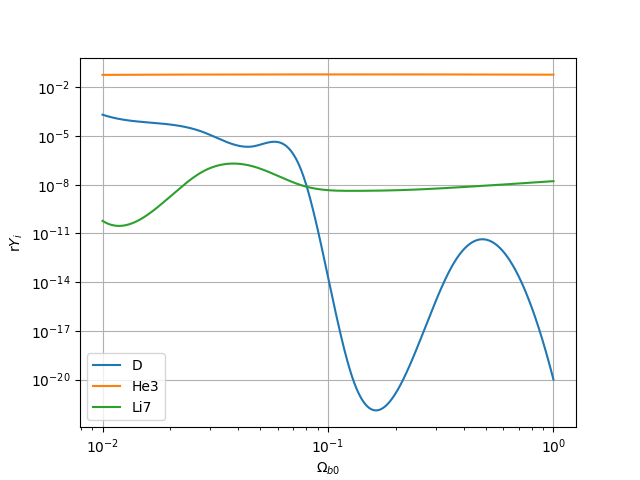
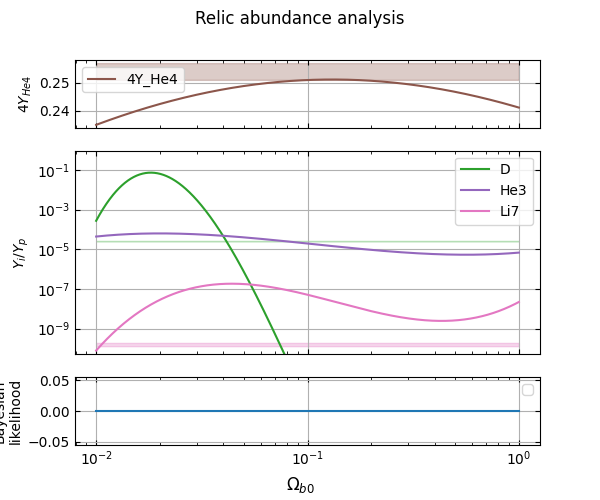
made the final subplot, but it shouldnt be zero? Probably cause wrong values

Changed region(s): [[0.0, 0.0938, 0.9, 1.0], [0.33, 0.0, 0.69, 0.0625]]

diff --git a/Projects/Project 2/problem_scripts/problem_j.py b/Projects/Project 2/problem_scripts/problem_j.py
@@ -49,7 +49,7 @@ def bayesian_probability(
     """
     return (
         1
-        / (np.sqrt(2 * error ** (2 * len(predicted))))
+        / (np.sqrt(2 * np.prod(error * error)))
         * np.exp(-xi_squared(predicted, observed, error))
     )
 
@@ -69,7 +69,7 @@ def interpolate_Y_func_of_Omegab0(
         Tuple containing the logspace interpolated mass fractions functions logY_i(logOmega_b0)
         for i = D, He3, He4, and Li7
     """
-    Y_model = np.zeros((4, len(Omega_b0_vals)))
+    Y_model = np.zeros((5, len(Omega_b0_vals)))
     for i, Omega_b0 in enumerate(Omega_b0_vals):
         # Initialize
         bbn = BBN(N_species, Omega_b0=Omega_b0)
@@ -90,42 +90,45 @@ def interpolate_Y_func_of_Omegab0(
         # Extract mass fractions
         Y_p = Y[1]
         Y_D = Y[2]
+        Y_He3 = Y[4]
         Y_He4 = Y[5]
         Y_Li7 = Y[6]
-        Y = np.asarray([Y_p, Y_D, Y_He4, Y_Li7])
+        Y = np.asarray([Y_p, Y_D, Y_He3, Y_He4, Y_Li7])
 
         # Append processed mass fractions
         Y_model[:, i] = Y
 
     # Interpolate each function in logspace
     kind = "cubic"
-    Y_p, Y_D, Y_He4, Y_Li7 = Y_model
+    Y_p, Y_D, Y_He3, Y_He4, Y_Li7 = Y_model
 
     Y_p_interp = interp1d(np.log10(Omega_b0_vals), np.log10(Y_p), kind=kind)
     Y_D_interp = interp1d(np.log10(Omega_b0_vals), np.log10(Y_D), kind=kind)
+    Y_He3_interp = interp1d(np.log10(Omega_b0_vals), np.log10(Y_He3), kind=kind)
     Y_He4_interp = interp1d(np.log10(Omega_b0_vals), np.log10(Y_He4), kind=kind)
     Y_Li7_interp = interp1d(np.log10(Omega_b0_vals), np.log10(Y_Li7), kind=kind)
 
-    return Y_p_interp, Y_D_interp, Y_He4_interp, Y_Li7_interp
+    return Y_p_interp, Y_D_interp, Y_He3_interp, Y_He4_interp, Y_Li7_interp
 
 
 if __name__ == "__main__":
     # Variables
     T_i = 1e11  # initial temperature [K]
     T_f = 1e7  # final temperature [K]
-    y_min = (
-        0.5e-10  # minimum value for y-axis in the middle Y_i/Y_p relic abundance plot
-    )
+    y_min = 1e-10  # minimum value for y-axis in the middle Y_i/Y_p relic abundance plot
     Y_min = 1e-20  # lower bound value for mass fractions Y_i
     Omega_b0_min = 1e-2  # minimum value for Omega_b0
     Omega_b0_max = 1  # maximum value for Omega_b0
-    n = 4  # number of points for Omega_b0 before interpolation
+    n = 4  # number of points for Omega_b0 before interpolation TODO: RAISE
+
+    # Plotting variables
     n_plot = 1000  # number of points for Omega_b0 after interpolation
+    filename = os.path.join(FIG_DIR, "j_relic_abundances.png")  # plot filename
+    figsize = (7, 5)  # figure size
+
     Omega_b0_vals = np.logspace(
         np.log10(Omega_b0_min), np.log10(Omega_b0_max), n
-    )  # baryon density parameter today
-    filename = os.path.join(FIG_DIR, "j_relic_abundances.png")  # plot filename
-    figsize = (6, 5)  # figure size
+    )  # baryon density parameter today, array
 
     # Observed values for relic abundances Y_i/Y_p
     D_ab = 2.57e-5
@@ -134,19 +137,32 @@ if __name__ == "__main__":
     Li7_ab_err = 0.3e-10
 
     # Observed value for mass fraction 4Y_He4
-    mass_frac_He4 = 0.254
-    mass_frac_He4_err = 0.003
+    He4_mass_frac_obs = 0.254
+    He4_mass_frac_err = 0.003
 
     # Interpolate
-    Y_p_interp, Y_D_interp, Y_He4_interp, Y_Li7_interp = interpolate_Y_func_of_Omegab0(
-        Omega_b0_vals, N_species=8, Y_min=Y_min
-    )
+    (
+        Y_p_interp_func,
+        Y_D_interp_func,
+        Y_He3_interp_func,
+        Y_He4_interp_func,
+        Y_Li7_interp_func,
+    ) = interpolate_Y_func_of_Omegab0(Omega_b0_vals, N_species=8, Y_min=Y_min)
 
-    # Array to interpolate graph
+    # Array to interpolate graph with
     Omega_b0_arr = np.logspace(
         np.log10(Omega_b0_vals[0]), np.log10(Omega_b0_vals[-1]), n_plot
     )
     log_Omega_b0_arr = np.log10(Omega_b0_arr)
+
+    # Interpolate with these values
+    Y_p_interp = 10 ** (Y_p_interp_func(log_Omega_b0_arr))
+    Y_D_interp = 10 ** (Y_D_interp_func(log_Omega_b0_arr))
+    Y_He3_interp = 10 ** (Y_He3_interp_func(log_Omega_b0_arr))
+    Y_He4_interp = 10 ** (Y_He4_interp_func(log_Omega_b0_arr))
+    Y_Li7_interp = 10 ** (Y_Li7_interp_func(log_Omega_b0_arr))
+
+    He4_mass_frac_interp = 4 * Y_He4_interp
 
     # Plotting
     fig, axs = plt.subplots(
@@ -159,7 +175,7 @@ if __name__ == "__main__":
     # Plot 4Y_He4
     axs[0].plot(
         Omega_b0_arr,
-        4 * 10 ** (Y_He4_interp(log_Omega_b0_arr)),
+        He4_mass_frac_interp,
         label="4Y_He4",
         color=COLORS[5],
     )
@@ -168,8 +184,8 @@ if __name__ == "__main__":
     opacity = 0.3
     axs[0].fill_between(
         Omega_b0_arr,
-        mass_frac_He4 - mass_frac_He4_err,
-        mass_frac_He4 + mass_frac_He4_err,
+        He4_mass_frac_obs - He4_mass_frac_err,
+        He4_mass_frac_obs + He4_mass_frac_err,
         alpha=opacity,
         color=COLORS[5],
     )
@@ -181,18 +197,16 @@ if __name__ == "__main__":
     axs[0].grid(True)
 
     # Plot Y_i/Y_p for D, He3, and Li7
-    axs[1].loglog(
-        Omega_b0_arr, 10 ** (Y_D_interp(log_Omega_b0_arr)), label="D", color=COLORS[2]
-    )
+    axs[1].loglog(Omega_b0_arr, Y_D_interp / Y_p_interp, label="D", color=COLORS[2])
     axs[1].loglog(
         Omega_b0_arr,
-        10 ** (Y_He4_interp(log_Omega_b0_arr)),
+        Y_He3_interp / Y_p_interp,
         label="He3",
         color=COLORS[4],
     )
     axs[1].loglog(
         Omega_b0_arr,
-        10 ** (Y_Li7_interp(log_Omega_b0_arr)),
+        Y_Li7_interp / Y_p_interp,
         label="Li7",
         color=COLORS[-2],
     )
@@ -220,17 +234,45 @@ if __name__ == "__main__":
     axs[1].grid(True)
 
     # Calculate Bayesian likelihood
-    model = np.asarray(
-        [
+    """model = np.concatenate(
+        (
             10 ** (Y_D_interp(log_Omega_b0_arr)),
             10 ** (Y_He4_interp(log_Omega_b0_arr)),
             10 ** (Y_Li7_interp(log_Omega_b0_arr)),
-        ]
+        ),
+        axis=None,
     )
-    observed = np.asarray([D_ab, mass_frac_He4, Li7_ab])
-    error = np.asarray([D_ab_err, mass_frac_He4_err, Li7_ab_err])
 
-    likelihood = bayesian_probability(model, observed, error)
+    # Fill like-sized arrays with the observed and error scalar value
+    observed = np.asarray(
+        [
+            np.full(n_plot, D_ab),
+            np.full(n_plot, He4_mass_frac_obs),
+            np.full(n_plot, Li7_ab),
+        ]
+    ).flatten()
+    error = np.asarray(
+        [
+            np.full(n_plot, D_ab_err),
+            np.full(n_plot, He4_mass_frac_err),
+            np.full(n_plot, Li7_ab_err),
+        ]
+    ).flatten()"""
+    # Create likelihood as a function of Omega_b0, by using interpolated solutions
+    likelihood = [
+        bayesian_probability(
+            np.asarray(
+                [
+                    Y_D_interp[i],
+                    Y_Li7_interp[i],
+                    He4_mass_frac_interp[i],
+                ]
+            ),
+            np.asarray([D_ab, Li7_ab, He4_mass_frac_obs]),
+            np.asarray([D_ab_err, Li7_ab_err, He4_mass_frac_err]),
+        )
+        for i in range(n_plot)
+    ]
 
     # Plot Bayesian likelihood
     axs[2].plot(Omega_b0_arr, likelihood)
